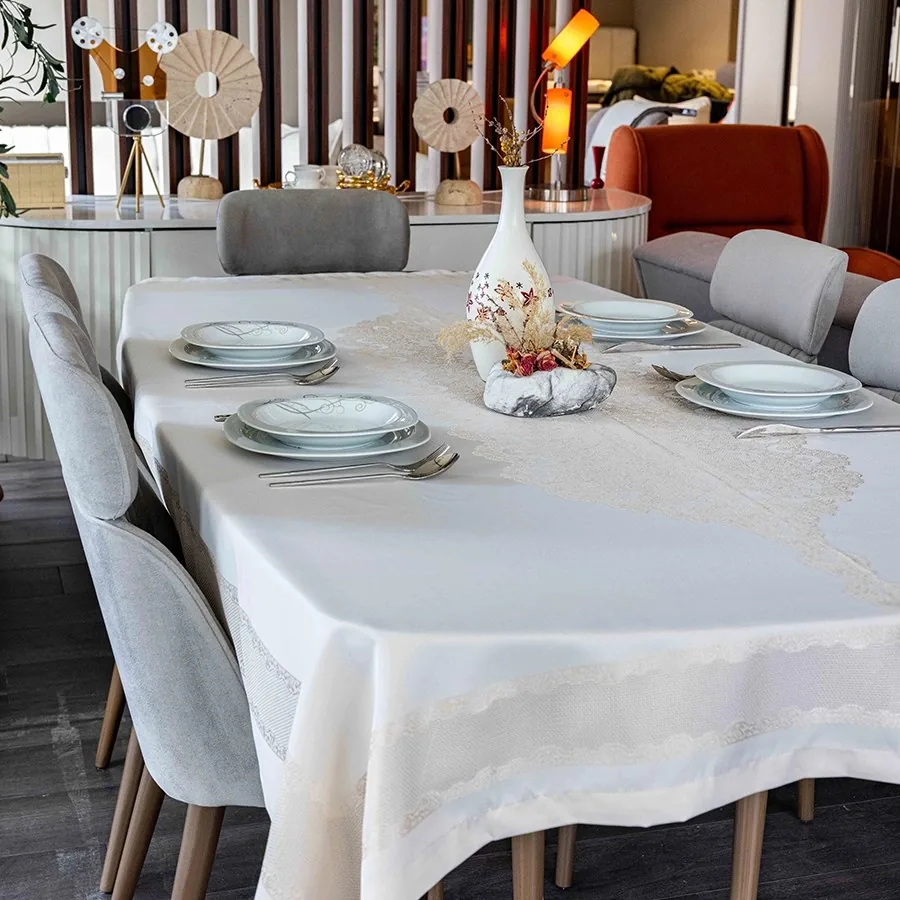
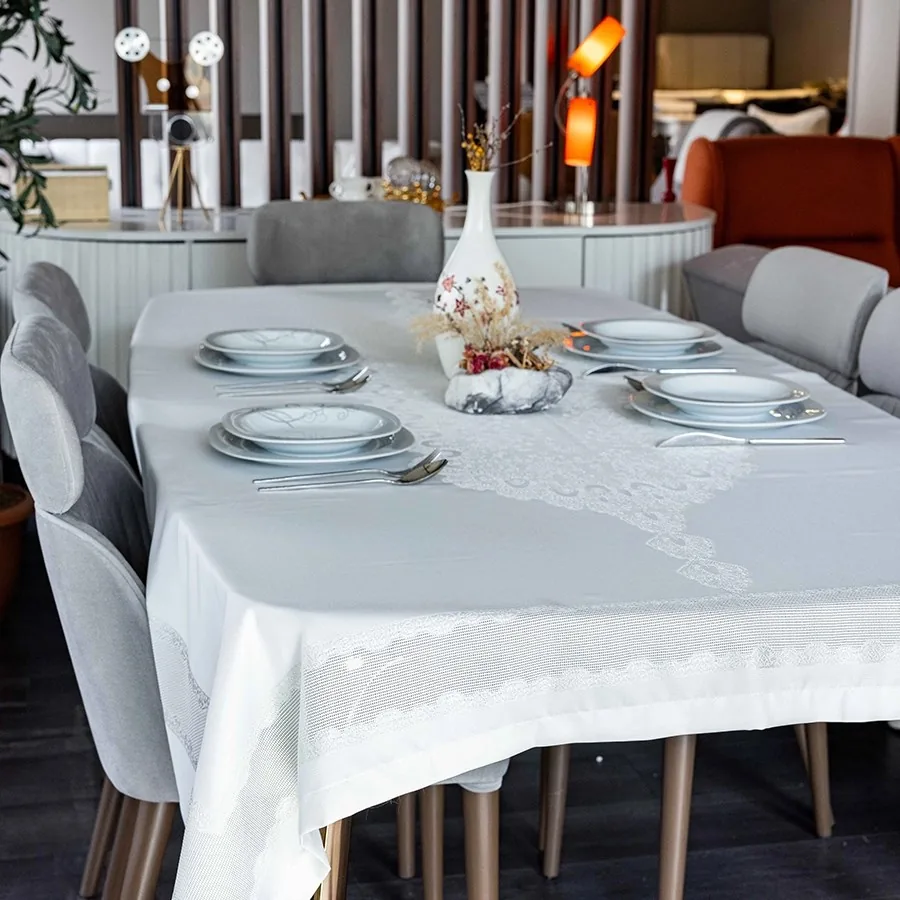
Pano masa ortusu renk adlari duzeltildi
Kullanici duzeltmesi: gumus dantelli olan Tas degil Krem, altin dantelli olan
Krem degil Kapucino. Tas rengi urunde yok, kaldirildi.

pano-tas.webp silindi, pano-kapucino.webp eklendi, pano-krem.webp artik gumus
dantelli gorseli tutuyor. Swatch renkleri de yeni adlara gore guncellendi.
Renk adi gecen her yer birlikte degisti: COLORS dizisi, urun semasindaki
gorsel listesi, detay karti, SSS metni ve SSS semasi, og aciklamasi, kategori
karti ve llms.txt.

Claude-Session: https://claude.ai/code/session_0187VJFJQQEGYf2nxzECePys

diff --git a/masa-ortusu/urun/pano-masa-ortusu.html b/masa-ortusu/urun/pano-masa-ortusu.html
@@ -18,7 +18,7 @@
   <meta name="robots" content="index, follow">
   <link rel="canonical" href="/masa-ortusu/urun/pano-masa-ortusu.html">
   <meta property="og:title" content="Pano Masa Örtüsü - Dantel Panolu - Tela Home">
-  <meta property="og:description" content="Leke tutmaz %100 polyester, ortadan geçen dantel panolu masa örtüsü. 950 TL'den. Krem, taş, gri. Ücretsiz kargo.">
+  <meta property="og:description" content="Leke tutmaz %100 polyester, ortadan geçen dantel panolu masa örtüsü. 950 TL'den. Krem, kapuçino, gri. Ücretsiz kargo.">
   <meta property="og:url" content="https://telahome.store/masa-ortusu/urun/pano-masa-ortusu.html">
   <meta property="og:type" content="product">
   <meta property="og:image" content="https://telahome.store/masa-ortusu/images/pano/pano-krem.webp">
@@ -33,13 +33,13 @@
     "@context": "https://schema.org",
     "@type": "Product",
     "name": "Pano Masa Örtüsü",
-    "description": "Ortadan boydan boya geçen dantel panolu dikdörtgen masa örtüsü. Su bazlı, leke tutmaz 1. kalite %100 polyester kumaştan üretilir. Kenarlarda ajur bant ve dantel bordür. Krem, taş ve gri renk seçenekleri.",
+    "description": "Ortadan boydan boya geçen dantel panolu dikdörtgen masa örtüsü. Su bazlı, leke tutmaz 1. kalite %100 polyester kumaştan üretilir. Kenarlarda ajur bant ve dantel bordür. Krem, kapuçino ve gri renk seçenekleri.",
     "material": "%100 Polyester",
     "sku": "pano",
     "brand": { "@type": "Brand", "name": "Tela Home" },
     "image": [
       "https://telahome.store/masa-ortusu/images/pano/pano-krem.webp",
-      "https://telahome.store/masa-ortusu/images/pano/pano-tas.webp",
+      "https://telahome.store/masa-ortusu/images/pano/pano-kapucino.webp",
       "https://telahome.store/masa-ortusu/images/pano/pano-gri.webp"
     ],
     "offers": {
@@ -353,7 +353,7 @@
         <div class="detail-card">
           <div class="detail-card-icon"><svg viewBox="0 0 24 24" stroke-linecap="round" stroke-linejoin="round"><circle cx="12" cy="12" r="10"/><circle cx="12" cy="12" r="4"/></svg></div>
           <h3>Üç Renk Alternatifi</h3>
-          <p>Krem, taş ve gri. Üçünde de zemin beyaza yakın; fark dantelin tonunda — altın, gümüş ve antrasit.</p>
+          <p>Krem, kapuçino ve gri. Üçünde de zemin beyaza yakın; fark dantelin tonunda — gümüş, altın ve antrasit.</p>
         </div>
         <div class="detail-card">
           <div class="detail-card-icon"><svg viewBox="0 0 24 24" stroke-linecap="round" stroke-linejoin="round"><polyline points="3 6 5 6 21 6"/><path d="M19 6v14a2 2 0 01-2 2H7a2 2 0 01-2-2V6"/></svg></div>
@@ -382,7 +382,7 @@
     </details>
     <details>
       <summary>Pano masa örtüsü hangi renklerde?</summary>
-      <p>Krem, taş ve gri olmak üzere üç renk vardır. Üçünde de zemin beyaza yakındır; fark dantel panonun tonundadır — krem altın, taş gümüş, gri antrasit tonludur.</p>
+      <p>Krem, kapuçino ve gri olmak üzere üç renk vardır. Üçünde de zemin beyaza yakındır; fark dantel panonun tonundadır — krem gümüş, kapuçino altın, gri antrasit tonludur.</p>
     </details>
     <details>
       <summary>Pano masa örtüsü fiyatı ne kadar?</summary>
@@ -424,7 +424,7 @@
         "name": "Pano masa örtüsü hangi renklerde?",
         "acceptedAnswer": {
           "@type": "Answer",
-          "text": "Krem, taş ve gri olmak üzere üç renk vardır. Üçünde de zemin beyaza yakındır; fark dantel panonun tonundadır — krem altın, taş gümüş, gri antrasit tonludur."
+          "text": "Krem, kapuçino ve gri olmak üzere üç renk vardır. Üçünde de zemin beyaza yakındır; fark dantel panonun tonundadır — krem gümüş, kapuçino altın, gri antrasit tonludur."
         }
       },
       {
@@ -539,9 +539,9 @@
     // Üç renkte de zemin beyaza yakın; hex, dantel panonun tonunu temsil ediyor.
     // Her renk her ölçüde mevcut, bu yüzden ayrı bir uygunluk kuralı yok.
     const COLORS = [
-      { key: 'krem', label: 'Krem', hex: '#D8C4A0', image: '/masa-ortusu/images/pano/pano-krem.webp' },
-      { key: 'tas',  label: 'Taş',  hex: '#BFC3C6', image: '/masa-ortusu/images/pano/pano-tas.webp' },
-      { key: 'gri',  label: 'Gri',  hex: '#6E7276', image: '/masa-ortusu/images/pano/pano-gri.webp' }
+      { key: 'krem',     label: 'Krem',     hex: '#E8DCC8', image: '/masa-ortusu/images/pano/pano-krem.webp' },
+      { key: 'kapucino', label: 'Kapuçino', hex: '#B08963', image: '/masa-ortusu/images/pano/pano-kapucino.webp' },
+      { key: 'gri',      label: 'Gri',      hex: '#6E7276', image: '/masa-ortusu/images/pano/pano-gri.webp' }
     ];
 
     // ─── DURUM ───

diff --git a/masa-ortusu/index.html b/masa-ortusu/index.html
@@ -1362,7 +1362,7 @@
             <span class="jumbo-pill">3 Renk</span>
           </div>
           <h3>Pano Masa Örtüsü</h3>
-          <p>Su bazlı, leke tutmaz 1. kalite %100 polyester. Ortadan boydan boya geçen dantel pano, kenarlarda file dokulu ajur bant ve dantel bordür — ayrıca runner sermeye gerek kalmaz. 110×160, 160×220, 160×260 ve 160×300 cm ölçülerde; krem, taş ve gri renk seçenekleriyle.</p>
+          <p>Su bazlı, leke tutmaz 1. kalite %100 polyester. Ortadan boydan boya geçen dantel pano, kenarlarda file dokulu ajur bant ve dantel bordür — ayrıca runner sermeye gerek kalmaz. 110×160, 160×220, 160×260 ve 160×300 cm ölçülerde; krem, kapuçino ve gri renk seçenekleriyle.</p>
           <div class="jumbo-feature-row">
             <span class="jumbo-price-from">950 TL'den başlayan</span>
             <span class="jumbo-cta">Detay &amp; Sipariş →</span>
